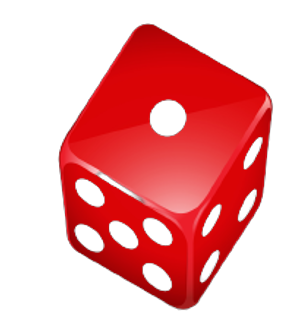
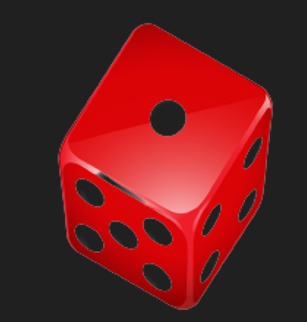
update

diff --git a/lib/roller_dice.dart b/lib/roller_dice.dart
@@ -1,3 +1,5 @@
+import 'dart:math';
+
 import 'package:flutter/material.dart';
 
 class GameRollerDice extends StatefulWidget {
@@ -13,7 +15,7 @@ class _GameRollerDiceState extends State<GameRollerDice> {
 
   void roll(){
     setState(() {
-      diceNumber=2;
+      diceNumber=Random().nextInt(6)+1;
     });
   }  
 
@@ -23,7 +25,7 @@ class _GameRollerDiceState extends State<GameRollerDice> {
             mainAxisSize: MainAxisSize.min,
             children: [
               Image.asset(
-                'assets/images/01-$diceNumber.png',
+                'assets/images/dice-$diceNumber.png',
               width: 200,
               ),
               const SizedBox(
@@ -31,7 +33,7 @@ class _GameRollerDiceState extends State<GameRollerDice> {
               ),
               TextButton(onPressed: roll, 
               style: TextButton.styleFrom(
-                backgroundColor: Colors.brown,
+                backgroundColor: const Color.fromARGB(255, 85, 62, 53),
                 foregroundColor: Colors.white,
                 textStyle: const TextStyle(fontSize: 28)
               ),

diff --git a/lib/app.dart b/lib/app.dart
@@ -8,14 +8,14 @@ Widget build(BuildContext context) {
   return MaterialApp(
     home: Scaffold(
       appBar: AppBar(
-         backgroundColor: Color.fromARGB(205,133,69, 41),
+         backgroundColor: Color.fromARGB(240, 169, 79, 41),
          title: const Text('Roller Dice Game'),
          centerTitle: true,
           ),
           body: const DicePage(colors:[
-          Color.fromARGB(255, 12, 33, 16),
-          Color.fromARGB(255, 12, 33, 16),
-          Color.fromARGB(255, 12, 33, 16)
+          Color.fromARGB(255, 5, 33, 10),
+          Color.fromARGB(255, 5, 33, 10),
+          Color.fromARGB(255, 5, 33, 10)
           ]),
       ),
   );

diff --git a/lib/dice_page.dart b/lib/dice_page.dart
@@ -16,7 +16,7 @@ final List<Color> colors;
           begin:beginAligment,
           end:endAligment,
           )),
-         child:const GameRollerDice(),
+         child:const Center(child: GameRollerDice()),
     );
 }
 }
